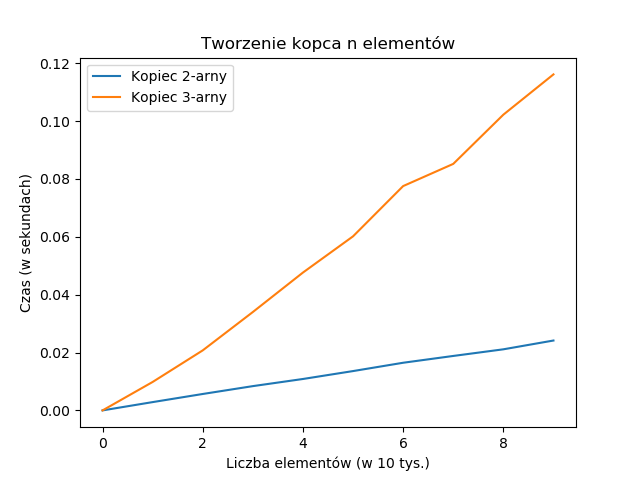
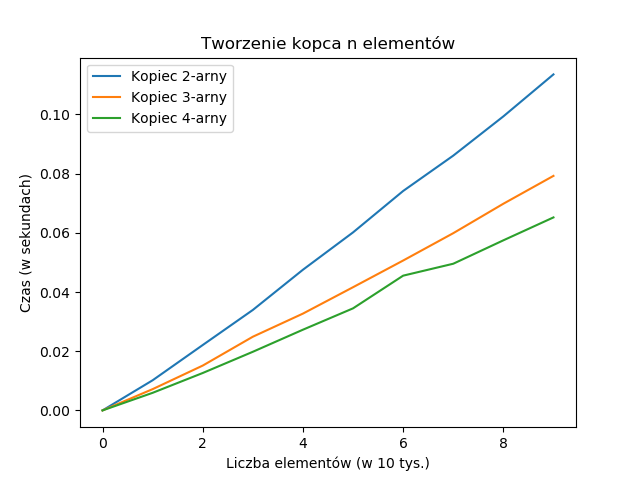
4-arny

diff --git a/Lab3/heap3.py b/Lab3/heap3.py
@@ -1,97 +1,29 @@
-from xml.dom import minidom
-
-
 def insert(array, value):
     array.append(value)
     current = len(array) - 1
     while current != 0:
-        if array[current] < array[current//3]:
-            array[current], array[current//3] = array[current//3], array[current]
+        if array[current] < array[current // 3]:
+            array[current], array[current // 3] = array[current // 3], array[current]
         current //= 3
 
 
 def remove(array):
     array[0] = array[-1]
     array.pop()
-    heapify(array, 0)
+    if(len(array)):
+        heapify(array, 0)
 
 
 def heapify(array, index):
-    if len(array) < 5 and index == 0:
-        if 3*index + 3 < len(array):
-            temp = min(array[3*index + 1], array[3*index + 2], array[3*index + 3])
-            if array[index] > temp:
-                if temp == array[3*index + 1]:
-                    array[index], array[3*index + 1] = array[3*index + 1], array[index]
-                    heapify(array, 3*index + 1)
-                elif temp == array[3*index + 2]:
-                    array[index], array[3*index + 2] = array[3*index + 2], array[index]
-                    heapify(array, 3*index + 2)
-                elif temp == array[3*index + 3]:
-                    array[index], array[3*index + 3] = array[3*index + 3], array[index]
-                    heapify(array, 3*index + 3)
-    else:
-        if 3*index + 2 < len(array):
-            temp = min(array[3*index], array[3*index + 1], array[3*index + 2])
-            if array[index] > temp:
-                if temp == array[3*index]:
-                    array[index], array[3*index] = array[3*index], array[index]
-                    heapify(array, 3*index)
-                elif temp == array[3*index + 1]:
-                    array[index], array[3*index + 1] = array[3*index + 1], array[index]
-                    heapify(array, 3*index + 1)
-                elif temp == array[3*index + 2]:
-                    array[index], array[3*index + 2] = array[3*index + 2], array[index]
-                    heapify(array, 3*index + 2)
+    temp = 1e18
+    for i in range(1, 4):
+        if(3 * index + i < len(array)):
+            temp = min(temp, array[3 * index + i])
 
-
-def printXML(root, fileName):
-    doc = minidom.Document()
-    node = doc.createElement("root")
-    node.setAttribute('value', str(root[0]))
-    doc.appendChild(node)
-    if 1 < len(root):
-        printNode(1, node, doc)
-    if 2 < len(root):
-        printNode(2, node, doc)
-    if 3 < len(root):
-        printNode(3, node, doc)
-    xml_str = doc.toprettyxml(indent='\t')
-    with open(fileName, "w") as f:
-        f.write(xml_str)
-
-
-def printNode(node, parent, doc):
-    child = doc.createElement("child")
-    child.setAttribute('value', str(heap[node]))
-    parent.appendChild(child)
-    if 3*node < len(heap):
-        printNode(3*node, child, doc)
-    if 3*node + 1 < len(heap):
-        printNode(3*node + 1, child, doc)
-    if 3*node + 2 < len(heap):
-        printNode(3*node + 2, child, doc)
-
-
-heap = []
-insert(heap, 5)
-insert(heap, 3)
-insert(heap, 17)
-insert(heap, 10)
-insert(heap, 84)
-insert(heap, 19)
-insert(heap, 6)
-insert(heap, 22)
-insert(heap, 9)
-printXML(heap, "heap3.xml")
-print(heap)
-remove(heap)
-print(heap)
-remove(heap)
-print(heap)
-remove(heap)
-print(heap)
-remove(heap)
-print(heap)
-remove(heap)
-print(heap)
+    if(temp < array[index]):
+        for i in range(1, 4):
+            if(3 * index + i < len(array)):
+                if(array[3 * index + i] == temp):
+                    array[index], array[3 * index + i] = array[3 * index + i], array[index]
+                    heapify(array, 3 * index + i)
+                    break

diff --git a/Lab3/heap2.py b/Lab3/heap2.py
@@ -1,74 +1,29 @@
-from xml.dom import minidom
-
-
 def insert(array, value):
     array.append(value)
     current = len(array) - 1
-    while array[current] < array[current//2]:
-        array[current], array[current//2] = array[current//2], array[current]
+    while current != 0:
+        if array[current] < array[current // 2]:
+            array[current], array[current // 2] = array[current // 2], array[current]
         current //= 2
 
 
 def remove(array):
-    array[1] = array[len(array) - 1]
+    array[0] = array[-1]
     array.pop()
-    heapify(array, 1)
+    if(len(array)):
+        heapify(array, 0)
 
 
 def heapify(array, index):
-    if 2*index + 1 < len(array):
-        if array[index] > array[2*index] or array[index] > array[2*index + 1]:
-            if array[2*index] < array[2*index + 1]:
-                array[index], array[2*index] = array[2*index], array[index]
-                heapify(array, 2*index)
-            else:
-                array[index], array[2*index + 1] = array[2*index + 1], array[index]
-                heapify(array, 2*index + 1)
+    temp = 1e18
+    for i in range(1, 3):
+        if(2 * index + i < len(array)):
+            temp = min(temp, array[2 * index + i])
 
-
-def printXML(root, fileName):
-    doc = minidom.Document()
-    node = doc.createElement("root")
-    node.setAttribute('value', str(root[1]))
-    doc.appendChild(node)
-    if 2 < len(root):
-        printNode(2, node, doc)
-    if 3 < len(root):
-        printNode(3, node, doc)
-    xml_str = doc.toprettyxml(indent='\t')
-    with open(fileName, "w") as f:
-        f.write(xml_str)
-
-
-def printNode(node, parent, doc):
-    child = doc.createElement("child")
-    child.setAttribute('value', str(heap[node]))
-    parent.appendChild(child)
-    if 2*node < len(heap):
-        printNode(2*node, child, doc)
-    if 2*node + 1 < len(heap):
-        printNode(2*node + 1, child, doc)
-
-
-heap = [-1]
-insert(heap, 5)
-insert(heap, 3)
-insert(heap, 17)
-insert(heap, 10)
-insert(heap, 84)
-insert(heap, 19)
-insert(heap, 6)
-insert(heap, 22)
-insert(heap, 9)
-printXML(heap, "heap2.xml")
-print(heap)
-remove(heap)
-print(heap)
-remove(heap)
-print(heap)
-remove(heap)
-print(heap)
-remove(heap)
-print(heap)
-remove(heap)
-print(heap)
+    if(temp < array[index]):
+        for i in range(1, 3):
+            if(2 * index + i < len(array)):
+                if(array[2 * index + i] == temp):
+                    array[index], array[2 * index + i] = array[2 * index + i], array[index]
+                    heapify(array, 2 * index + i)
+                    break

diff --git a/Lab3/testing.py b/Lab3/testing.py
@@ -1,5 +1,6 @@
 import heap2
 import heap3
+import heap4
 import random
 import time
 import matplotlib.pyplot as plt
@@ -59,23 +60,53 @@ def testRemove3():
     return times
 
 
+def testInsertion4():
+    times = []
+    for i in range(10):
+        heap = [-1]
+        start = time.perf_counter()
+        for j in range(i*10000):
+            heap4.insert(heap, j)
+        stop = time.perf_counter()
+        times.append(stop-start)
+    return times
+
+
+def testRemove4():
+    times = []
+    for i in range(10):
+        heap = [-1]
+        for j in numbers:
+            heap4.insert(heap, j)
+        start = time.perf_counter()
+        for j in range(i*10000):
+            heap4.remove(heap)
+        stop = time.perf_counter()
+        times.append(stop-start)
+    return times
+
+
 if __name__ == "__main__":
     insertionTimes2 = testInsertion2()
     removeTimes2 = testRemove2()
     insertionTimes3 = testInsertion3()
     removeTimes3 = testRemove3()
+    insertionTimes4 = testInsertion4()
+    removeTimes4 = testRemove4()
     plt.plot(insertionTimes2)
     plt.plot(insertionTimes3)
+    plt.plot(insertionTimes4)
     plt.title("Tworzenie kopca n elementów")
     plt.xlabel("Liczba elementów (w 10 tys.)")
     plt.ylabel("Czas (w sekundach)")
-    plt.legend(["Kopiec 2-arny", "Kopiec 3-arny"])
+    plt.legend(["Kopiec 2-arny", "Kopiec 3-arny", "Kopiec 4-arny"])
     plt.savefig("insertionPlot.png")
     plt.clf()
     plt.plot(removeTimes2)
     plt.plot(removeTimes3)
+    plt.plot(removeTimes4)
     plt.title("Usuwanie n elementów z kopca 300000 elementów")
     plt.xlabel("Liczba usuwanych elementów (w 10 tys.)")
     plt.ylabel("Czas (w sekundach)")
-    plt.legend(["Kopiec 2-arny", "Kopiec 3-arny"])
+    plt.legend(["Kopiec 2-arny", "Kopiec 3-arny", "Kopiec 4-arny"])
     plt.savefig("removePlot.png")

diff --git a/Lab3/heap4.py b/Lab3/heap4.py
@@ -1,0 +1,29 @@
+def insert(array, value):
+    array.append(value)
+    current = len(array) - 1
+    while current != 0:
+        if array[current] < array[current // 4]:
+            array[current], array[current // 4] = array[current // 4], array[current]
+        current //= 4
+
+
+def remove(array):
+    array[0] = array[-1]
+    array.pop()
+    if(len(array)):
+        heapify(array, 0)
+
+
+def heapify(array, index):
+    temp = 1e18
+    for i in range(1, 5):
+        if(4 * index + i < len(array)):
+            temp = min(temp, array[4 * index + i])
+
+    if(temp < array[index]):
+        for i in range(1, 5):
+            if(4 * index + i < len(array)):
+                if(array[4 * index + i] == temp):
+                    array[index], array[4 * index + i] = array[4 * index + i], array[index]
+                    heapify(array, 4 * index + i)
+                    break
